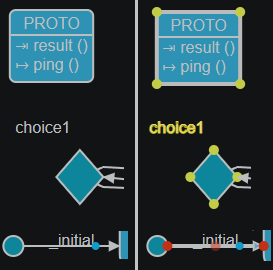
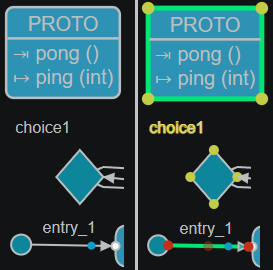
Doc and tests update for 3.6.0

diff --git a/docs-sources/working-with-art/diagrams.md b/docs-sources/working-with-art/diagrams.md
@@ -15,6 +15,13 @@ To open a diagram from an Art file place the cursor inside an Art element. Bring
 
 If the cursor is placed on an Art element that has a graphic representation in the form of a symbol or line in the diagram, for example a state in a state diagram, the symbol or line will be highlighted in the opened diagram by selecting it. You can use this feature as a way to navigate from an element in an Art file to the corresponding symbol or line in a diagram. If the diagram is already open, it will be made visible and the selection will be updated.
 
+!!! note
+    When opening a state diagram with the cursor placed on an element that is nested within a composite state, the element cannot be shown on the diagram if the composite state, or one of its parent composite states, is collapsed. In this situation a popup will appear with a button that can be pressed to expand those composite states that must be expanded to show the element on the diagram.
+
+    ![](images/autoexpand-composite-states.png)
+
+    The popup will stay open a few seconds, and if you don't press the button only the composite state that contains the element will be highlighted in the diagram.
+    
 You can also open diagrams from the context menu of an Art file in the Explorer view. In this case the Art file will be searched for an element that can be shown in the selected kind of diagram. If more than one such Art element is found, you will be prompted to pick the one to show in the diagram. For example:
 
 ![](images/open-diagram-multiple-elements.png)
@@ -194,15 +201,19 @@ When working in a zoomed-in diagram that contains composite symbols (for example
 * Press and hold down the ++space++ key (the cursor changes into a hand), and then click and drag anywhere in the diagram.
 
 ### Selecting Elements
-To select a symbol, label or line, click once on it. A selected symbol gets a thick outline and, if it is [resizable](#resizing-symbols), also yellow resize handles. A selected label is drawn in yellow and, if it belongs to a symbol, resize handles also appear on that symbol. A selected line gets a thick outline and red bendpoint handles.
+To select a symbol, label or line, click once on it. A selected symbol gets a thick green outline and, if it is [resizable](#resizing-symbols), also yellow resize handles. A selected label is drawn in yellow and, if it belongs to a symbol, resize handles also appear on that symbol. A selected line gets a thick green outline and red bendpoint handles.
 
 ![](images/selections.png)
 
-To select multiple elements hold down the ++ctrl++ key while clicking on symbols, labels or lines. As an alternative you can hold down both ++ctrl++ and ++shift++ (on Mac ++cmd++ and ++shift++) to get a "crosshair" cursor, and then make a "marquee selection" by drawing a rectangle. 
+For a few seconds after a new selection has been made the newly selected element is shown with a "glowing" outline. This makes it easier to notice the selected element if the diagram is big and cluttered, especially if it gets automatically selected when highlighted by a command that was invoked, such as **Open State Diagram**.
+
+![](images/glowing-selection.png)
+
+To select multiple elements hold down the ++ctrl++ key while clicking on symbols, labels or lines. As an alternative you can hold down ++shift++ to get a "crosshair" cursor, and then make a "marquee selection" by drawing a rectangle. 
 
 ![](images/marquee_selection.png)
 
-All symbols and lines (but not labels) that the marquee rectangle touches will become selected. Note that you cannot make a marquee selection if another element is already selected, so click in the diagram background to reset the selection first.
+All symbols and lines (but not labels) that the marquee rectangle touches will become selected.
 
 ### Collapsing and Expanding Symbols
 State and structure diagrams can be hierarchical. A state diagram is hierarchical if it contains a composite state with a nested state machine. A structure diagram is hierarchical if it contains a part typed by another capsule with nested parts or ports. By default symbols that contain nested symbols are collapsed to minimize the size of the diagram:

diff --git a/docs-sources/migration-modelrt/best-practices.md b/docs-sources/migration-modelrt/best-practices.md
@@ -12,6 +12,13 @@ When you decide to make a change in the model to be migrated (for example to add
 
 You can write a script (e.g. a Bash script) which can make such updates after the Art Exporter has run. Such a post migration script acts like a customization of the Art Exporter, and can also be useful for working around bugs or limitations. By applying the changes with a script rather than doing them manually, you can easily repeat the migration multiple times, something that is often needed during a migration project that can last several weeks for big models.
 
+The sections below cover some known limitations of the Art Exporter which currently must be handled by a post migration script.
+
+### Updating Names in Code Snippets
+As explained in [Capsule Class Name](#capsule-class-name) there is a difference between Model RealTime and {$product.name$} in how capsule classes and capsule type descriptors are named. The Art Exporter tries to automatically update such references in code snippets. When it's able to detect and update such a name it will print a [warning](#art-exporter-warnings). It's strongly recommended that you review these warnings to confirm that the update is correct.
+
+In some cases, however, the Art Exporter will fail to detect these names, and therefore not update them. This can for example happen if they are enclosed in conditional compilation blocks. If you get compilation errors caused by names that were not updated correctly, it's recommended to update them using a [post migration script](#post-migration-script) that can accurately detect and update the name.
+
 ## Capsule Class Name
 In Model RealTime the C++ class that is generated from a capsule has the suffix `_Actor` appended to its name. {$product.name$} does not add this suffix in order to make code snippets more readable. To avoid a name clash with the type descriptor for the capsule (which in Model RealTime has the same name as the capsule), {$product.name$} adds the prefix `RTType_` to its name. This is consistent with the prefix used for all other type descriptors.
 
@@ -41,4 +48,7 @@ Model RealTime supports various [variables](https://model-realtime.hcldoc.com/he
 
 If you have a variable in the exported TC that is not defined in {$product.name$} you can define an environment variable, either globally or in the shell from where you launch {$product.name$}. Some TC variables are expanded by {$product.name$}, while others are copied into the generated make file and will be expanded by the make tool. Note that some make tools (e.g. nmake) require environment variable names to be in all uppercase. For example, if you have used the predefined variable `${workspace_loc}` in inclusion paths or paths to object files, you may need to convert it to uppercase `${WORKSPACE_LOC}` in order for it to be expanded to the value of an environment variable with this name.
 
+## Top Make Command
+Model RealTime TCs have two properties `Top make command` and `Top make arguments` which are typically used for performing "pre-make" commands before the real build of the TC starts. For example, the top make command can invoke a script, copy files needed during the build etc.
 
+{$product.name$} TCs don't have these properties. Instead you can create a [build task](../building/build-tasks.md) which can perform these commands. You can then either invoke this build task manually before building the TC, or create a combined build task which both performs the "pre-make" commands and then invokes the Art Compiler to build the TC.

diff --git a/docs-sources/building/transformation-configurations.md b/docs-sources/building/transformation-configurations.md
@@ -52,13 +52,15 @@ To open the form-based TC editor, right-click on a TC file and invoke the contex
 
 ![](images/tc-editor.png)
 
-The editor groups the TC properties into three sections:
+The editor groups the TC properties into four sections:
 
 * **General**: Properties which define the scope of the TC (which elements to transform to C++ and where to place generated files)
 
 * **Code Generation**: Properties that control how Art elements are transformed into C++ code, and other properties that affect the generated code
 
 * **Build**: Properties that control how generated C++ code is built into a library or an executable
+
+* **Threads**: Properties related to [threads](#threads) used by the application
 
 Each available TC property has its own widget for viewing and editing the value. The type of widget depends on the type of TC property. For example, an enumerated property like "C++ Code Standard" uses a drop down menu.
 

diff --git a/art-comp-test/tests/tc_7000/testcase.md b/art-comp-test/tests/tc_7000/testcase.md
@@ -5,5 +5,6 @@ ac_output match1: ERROR[7000]|top.tcjs|5:1|copyrightText|string
 ac_output match2: ERROR[7000]|top.tcjs|6:1|cppCodeStandard|C++ 20|C++ 17|C++ 14|C++ 11|C++ 98|Older than C++ 98
 ac_output match3: ERROR[7000]|top.tcjs|7:1|sources|list of strings
 ac_output match4: ERROR[7000]|top.tcjs|8:1|userLibraries|list of strings
+ac_output match5: ERROR[7000]|top.tcjs|9:1|guardExpressions|boolean
 ---
 Test validation rule `TC_7000_wrongValueType`.
